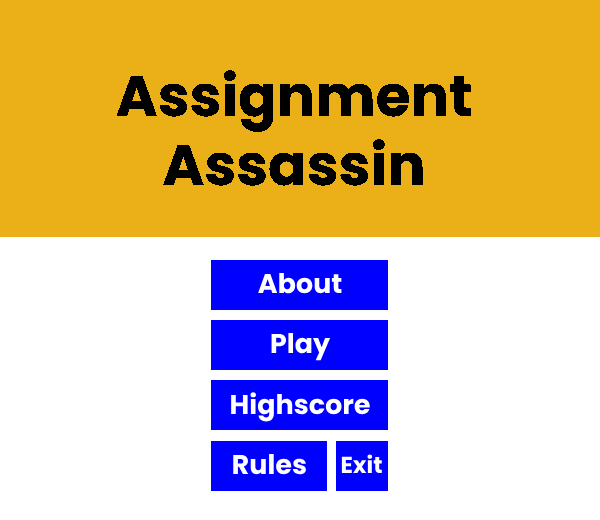
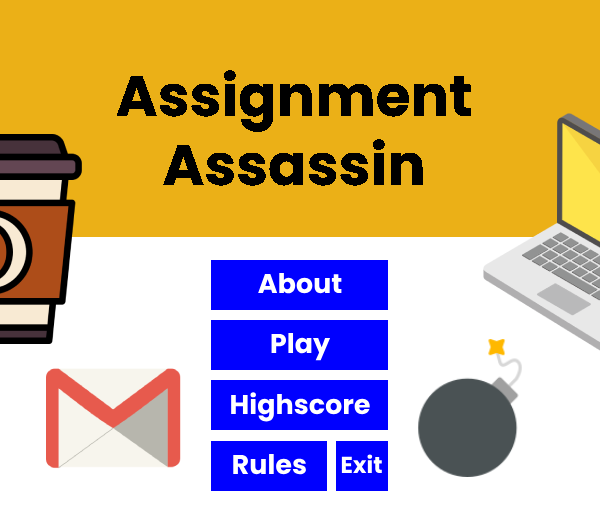
graphics update

diff --git a/Main.java b/Main.java
@@ -45,7 +45,7 @@ public class Main extends JPanel implements MouseListener, KeyListener, Runnable
 
     // IMAGES
     private static BufferedImage wallImg, unbreakableWallImg;
-    private static BufferedImage backgroundImg, highscoreImg, rulesImg, aboutImg, backImg, gameOverImg, winImg, bombImg, powerUpSpeedImg, powerUpSlowImg, doorImg, enemyImg;
+    private static BufferedImage backgroundImg, highscoreImg, rulesImg, aboutImg, backImg, gameOverImg, winImg, bombImg, powerUpSpeedImg, powerUpSlowImg, bedImg, enemyImg;
     private static BufferedImage[] characterSprites;
     private static BufferedImage playerImg;
     private static int spriteNum = 1;
@@ -77,9 +77,9 @@ public class Main extends JPanel implements MouseListener, KeyListener, Runnable
     private static int powerUp3Duration = 300;
     private static int powerUp4Duration = 300;
 
-    // DOOR
-    private static int xPosDoor;
-    private static int yPosDoor;
+    // BED
+    private static int xPosBed;
+    private static int yPosBed;
 
     // HIGHSCORE
     private static HashMap<String, Integer> highscoreMap = new HashMap<>();
@@ -176,8 +176,8 @@ public class Main extends JPanel implements MouseListener, KeyListener, Runnable
             // Clear screen
             super.paintComponent(g);
 
-            // Draw Door
-            g.drawImage(doorImg, xPosDoor, yPosDoor, null);
+            // Draw Bed
+            g.drawImage(bedImg, xPosBed, yPosBed, null);
 
             // If player has not claimed power up
             if(powerUp1Claimed == false)
@@ -355,7 +355,7 @@ public class Main extends JPanel implements MouseListener, KeyListener, Runnable
             g.drawString(timeString, 400, 27);
             g.drawString("Score: " + score, 80, 27);
             // Draw the countdown timer on the bottom
-            countDownString = String.format("Find the door within %d seconds for %d bonus points!", countDown, countDownPoints);
+            countDownString = String.format("Find the bed within %d seconds for %d bonus points!", countDown, countDownPoints);
             // If the countdown timer for bonus points has not run out, draw the countdown timer
             if(countDownPoints > 0)
             {
@@ -533,7 +533,7 @@ public class Main extends JPanel implements MouseListener, KeyListener, Runnable
         {
             // Clear screen, draw rules page, and draw back button
             super.paintComponent(g);
-            // g.drawImage(rulesImg, 0, 0, null);
+            g.drawImage(rulesImg, 0, 0, null);
             g.drawImage(backImg, 15, 15, null);
         }
 
@@ -604,7 +604,7 @@ public class Main extends JPanel implements MouseListener, KeyListener, Runnable
                     e1.printStackTrace();
                 }
             }
-            
+
             // If the user clicks on the play button
             else if(xPos >= 211 && xPos <= 388 && yPos >= 320 && yPos <= 370)
             {
@@ -794,9 +794,9 @@ public class Main extends JPanel implements MouseListener, KeyListener, Runnable
         // Get the key that the user presses
         int key = e.getKeyCode();
 
-        // Create player and door rectangle for opening the door to win
+        // Create player and bed rectangle for opening the bed to win
         Rectangle player = new Rectangle(xPosPlayer, yPosPlayer, 40, 40);
-        Rectangle door = new Rectangle(xPosDoor, yPosDoor, 40, 40);
+        Rectangle bed = new Rectangle(xPosBed, yPosBed, 40, 40);
 
         // If the user presses A set left to true and right to false. If the user presses D set right to true and left to false. If the user presses W set up to true and down to false. If the user presses S set down to true and up to false.
         if(key == KeyEvent.VK_A)
@@ -839,8 +839,8 @@ public class Main extends JPanel implements MouseListener, KeyListener, Runnable
             }
         }
 
-        // If the player is intersecting with the door and the user presses enter
-        else if((player.intersects(door) && (key == KeyEvent.VK_ENTER)))
+        // If the player is intersecting with the bed and the user presses enter
+        else if((player.intersects(bed) && (key == KeyEvent.VK_ENTER)))
         {
             // Play a sound effect and a victory tune
             clip.stop();
@@ -850,12 +850,12 @@ public class Main extends JPanel implements MouseListener, KeyListener, Runnable
             } catch (IOException e1) {
                 e1.printStackTrace();
             }
-            
-            // Determine how many points the user gets from entering the door
-            // If the user enters the door within 30 seconds: 300 points
-            // If the user enters the door after 30 seconds, but within 1 minute: 200 points
-            // If the user enters the door after 1 minute, but within 1 minute and 30 seconds: 100 points
-            // If the user enters the door after 1 minute and 30 seconds: 50 points
+
+            // Determine how many points the user gets from entering the bed
+            // If the user enters the bed within 30 seconds: 300 points
+            // If the user enters the bed after 30 seconds, but within 1 minute: 200 points
+            // If the user enters the bed after 1 minute, but within 1 minute and 30 seconds: 100 points
+            // If the user enters the bed after 1 minute and 30 seconds: 50 points
             if(timeElapsedSec <= 30)
                 score += 300;
             else if(timeElapsedSec > 30 && timeElapsedMin <= 1)
@@ -883,7 +883,7 @@ public class Main extends JPanel implements MouseListener, KeyListener, Runnable
         // Get the key that the user releases
         int key = e.getKeyCode();
 
-        // If the user releases A set left to false. If the user releases D set right to false. If the user releases W set up to false. If the user releases S set down to false   
+        // If the user releases A set left to false. If the user releases D set right to false. If the user releases W set up to false. If the user releases S set down to false
         if(key == KeyEvent.VK_A)
             left = false;
         else if(key == KeyEvent.VK_D)
@@ -948,7 +948,7 @@ public class Main extends JPanel implements MouseListener, KeyListener, Runnable
                         spriteNum = 1;
                     }
                     spriteCounter = 0;
-                    
+
                     try {
                         playMusic("footstep");
                     } catch (IOException e1) {
@@ -1065,7 +1065,7 @@ public class Main extends JPanel implements MouseListener, KeyListener, Runnable
         if(map[(bombY/40) - 1][(bombX/40)].equals("W")) {
             // Break the wall. Change the "W" in the 2d map array to a "-".
             map[(bombY/40) - 1][(bombX/40)] = "-";
-            
+
             // Play a sound effect for the wall breaking
             try {
                 playMusic("break");
@@ -1081,7 +1081,7 @@ public class Main extends JPanel implements MouseListener, KeyListener, Runnable
         if(map[(bombY/40) + 1][(bombX/40)].equals("W")) {
             // Break the wall. Change the "W" in the 2d map array to a "-".
             map[(bombY/40) + 1][(bombX/40)] = "-";
-            
+
             // Play a sound effect for the wall breaking
             try {
                 playMusic("break");
@@ -1097,7 +1097,7 @@ public class Main extends JPanel implements MouseListener, KeyListener, Runnable
         if(map[(bombY/40)][(bombX/40) - 1].equals("W")) {
             // Break the wall. Change the "W" in the 2d map array to a "-".
             map[(bombY/40)][(bombX/40) - 1] = "-";
-            
+
             // Play a sound effect for the wall breaking
             try {
                 playMusic("break");
@@ -1113,7 +1113,7 @@ public class Main extends JPanel implements MouseListener, KeyListener, Runnable
         if(map[(bombY/40)][(bombX/40) + 1].equals("W")) {
             // Break the wall. Change the "W" in the 2d map array to a "-".
             map[(bombY/40)][(bombX/40) + 1] = "-";
-            
+
             // Play a sound effect for the wall breaking
             try {
                 playMusic("break");
@@ -1169,7 +1169,7 @@ public class Main extends JPanel implements MouseListener, KeyListener, Runnable
 // --------------------------------------------------------------------------------------------------------------------------------------------------------
 
     // LOAD MAPS
-    // Description: This method reads "map.txt" and puts one of the maps from the text file into a 2d array so that it can be drawn when the game starts 
+    // Description: This method reads "map.txt" and puts one of the maps from the text file into a 2d array so that it can be drawn when the game starts
     // Parameters: N/A.
     // Return: N/A.
     public static void loadMaps() throws IOException
@@ -1215,11 +1215,11 @@ public class Main extends JPanel implements MouseListener, KeyListener, Runnable
             // Close the buffered reader
             br.close();
 
-            // Create the door
-            int doorBlock = (int) (Math.random() * xBlocks.size());
-            xPosDoor = xBlocks.get(doorBlock);
-            yPosDoor = yBlocks.get(doorBlock);
-            System.out.println("Door: " + xPosDoor + ", " + yPosDoor);
+            // Create the bed
+            int bedBlock = (int) (Math.random() * xBlocks.size());
+            xPosBed = xBlocks.get(bedBlock);
+            yPosBed = yBlocks.get(bedBlock);
+            System.out.println("Bed: " + xPosBed + ", " + yPosBed);
 
             // Call a method to generate enemies based on the map number
             generateEnemies(mapNumber);
@@ -1243,8 +1243,8 @@ public class Main extends JPanel implements MouseListener, KeyListener, Runnable
         // Generate x and y positions for power up 1
         int xPosPowerUp1 = (int)(Math.random()*(13)) +1;
         int yPosPowerUp1 = (int)(Math.random()*(11)) +1;
-        // While the x and y positions are not valid (if it is under an indestructable block, on the door, or on the spawn tile), generate another set of x and y positions for power up 1
-        while(map[yPosPowerUp1][xPosPowerUp1].equals("1") || (xPosPowerUp1 == xPosDoor && yPosPowerUp1 == yPosDoor) || (xPosPowerUp1 == 1 && yPosPowerUp1 == 1))
+        // While the x and y positions are not valid (if it is under an indestructable block, on the bed, or on the spawn tile), generate another set of x and y positions for power up 1
+        while(map[yPosPowerUp1][xPosPowerUp1].equals("1") || (xPosPowerUp1 == xPosBed && yPosPowerUp1 == yPosBed) || (xPosPowerUp1 == 1 && yPosPowerUp1 == 1))
         {
             xPosPowerUp1 = (int)(Math.random()*(13)) +1;
             yPosPowerUp1 = (int)(Math.random()*(11)) +1;
@@ -1255,8 +1255,8 @@ public class Main extends JPanel implements MouseListener, KeyListener, Runnable
         // Generate x and y positions for power up 2
         int xPosPowerUp2 = (int)(Math.random()*(13)) +1;
         int yPosPowerUp2 = (int)(Math.random()*(11)) +1;
-        // While the x and y positions are not valid (if it is under an indestructable block, on the door, on the spawn tile, or on power up 1), generate another set of x and y positions for power up 2
-        while(map[yPosPowerUp2][xPosPowerUp2].equals("1") || (xPosPowerUp1 == xPosPowerUp2 && yPosPowerUp1 == yPosPowerUp2) || (xPosPowerUp2 == xPosDoor && yPosPowerUp2 == yPosDoor) || (xPosPowerUp2 == 1 && yPosPowerUp2 == 1))
+        // While the x and y positions are not valid (if it is under an indestructable block, on the bed, on the spawn tile, or on power up 1), generate another set of x and y positions for power up 2
+        while(map[yPosPowerUp2][xPosPowerUp2].equals("1") || (xPosPowerUp1 == xPosPowerUp2 && yPosPowerUp1 == yPosPowerUp2) || (xPosPowerUp2 == xPosBed && yPosPowerUp2 == yPosBed) || (xPosPowerUp2 == 1 && yPosPowerUp2 == 1))
         {
             xPosPowerUp2 = (int)(Math.random()*(13)) +1;
             yPosPowerUp2 = (int)(Math.random()*(11)) +1;
@@ -1267,8 +1267,8 @@ public class Main extends JPanel implements MouseListener, KeyListener, Runnable
         // Generate x and y positions for power up 3
         int xPosPowerUp3 = (int)(Math.random()*(13)) +1;
         int yPosPowerUp3 = (int)(Math.random()*(11)) +1;
-        // While the x and y positions are not valid (if it is under an indestructable block, on the door, on the spawn tile, on power up 1, or on power up 2), generate another set of x and y positions for power up 3
-        while(map[yPosPowerUp3][xPosPowerUp3].equals("1") || (xPosPowerUp1 == xPosPowerUp3 && yPosPowerUp1 == yPosPowerUp3) || (xPosPowerUp2 == xPosPowerUp3 && yPosPowerUp2 == yPosPowerUp3) || (xPosPowerUp3 == xPosDoor && yPosPowerUp3 == yPosDoor) || (xPosPowerUp3 == 1 && yPosPowerUp3 == 1))
+        // While the x and y positions are not valid (if it is under an indestructable block, on the bed, on the spawn tile, on power up 1, or on power up 2), generate another set of x and y positions for power up 3
+        while(map[yPosPowerUp3][xPosPowerUp3].equals("1") || (xPosPowerUp1 == xPosPowerUp3 && yPosPowerUp1 == yPosPowerUp3) || (xPosPowerUp2 == xPosPowerUp3 && yPosPowerUp2 == yPosPowerUp3) || (xPosPowerUp3 == xPosBed && yPosPowerUp3 == yPosBed) || (xPosPowerUp3 == 1 && yPosPowerUp3 == 1))
         {
             xPosPowerUp3 = (int)(Math.random()*(13)) +1;
             yPosPowerUp3 = (int)(Math.random()*(11)) +1;
@@ -1279,8 +1279,8 @@ public class Main extends JPanel implements MouseListener, KeyListener, Runnable
         // Generate x and y positions for power up 4
         int xPosPowerUp4 = (int)(Math.random()*(13)) +1;
         int yPosPowerUp4 = (int)(Math.random()*(11)) +1;
-        // While the x and y positions are not valid (if it is under an indestructable block, on the door, on the spawn tile, on power up 1, on power up 2, or on power up 3), generate another set of x and y positions for power up 4
-        while(map[yPosPowerUp4][xPosPowerUp4].equals("1") || (xPosPowerUp1 == xPosPowerUp4 && yPosPowerUp1 == yPosPowerUp4) || (xPosPowerUp2 == xPosPowerUp4 && yPosPowerUp2 == yPosPowerUp4) || (xPosPowerUp3 == xPosPowerUp4 && yPosPowerUp3 == yPosPowerUp4) || (xPosPowerUp4 == xPosDoor && yPosPowerUp4 == yPosDoor) || (xPosPowerUp4 == 1 && yPosPowerUp4 == 1))
+        // While the x and y positions are not valid (if it is under an indestructable block, on the bed, on the spawn tile, on power up 1, on power up 2, or on power up 3), generate another set of x and y positions for power up 4
+        while(map[yPosPowerUp4][xPosPowerUp4].equals("1") || (xPosPowerUp1 == xPosPowerUp4 && yPosPowerUp1 == yPosPowerUp4) || (xPosPowerUp2 == xPosPowerUp4 && yPosPowerUp2 == yPosPowerUp4) || (xPosPowerUp3 == xPosPowerUp4 && yPosPowerUp3 == yPosPowerUp4) || (xPosPowerUp4 == xPosBed && yPosPowerUp4 == yPosBed) || (xPosPowerUp4 == 1 && yPosPowerUp4 == 1))
         {
             xPosPowerUp4 = (int)(Math.random()*(13)) +1;
             yPosPowerUp4 = (int)(Math.random()*(11)) +1;
@@ -1356,7 +1356,7 @@ public class Main extends JPanel implements MouseListener, KeyListener, Runnable
                 // If the user tries to enter an empty name
                 if(nameEntered.length() <= 0)
                 {
-                    // Display that it is invalid and call the method again so that the user can enter their name again 
+                    // Display that it is invalid and call the method again so that the user can enter their name again
                     JOptionPane.showMessageDialog(null, "No name given.", "Invalid Entry", JOptionPane.ERROR_MESSAGE);
                     enterHighscoreName();
                 }
@@ -1620,7 +1620,7 @@ public class Main extends JPanel implements MouseListener, KeyListener, Runnable
             // Load the images for the menu pages
             backgroundImg = ImageIO.read(new File("Images/Background.png"));
             highscoreImg = ImageIO.read(new File("Images/highscore.png"));
-            // rulesImg = ImageIO.read(new File("Images/rulesImg.png"));
+            rulesImg = ImageIO.read(new File("Images/rules.png"));
             aboutImg = ImageIO.read(new File("Images/about.png"));
             backImg = ImageIO.read(new File("Images/back.png"));
             gameOverImg = ImageIO.read(new File("Images/gameOver.png"));
@@ -1648,8 +1648,8 @@ public class Main extends JPanel implements MouseListener, KeyListener, Runnable
             powerUpSpeedImg = ImageIO.read(new File("Images/powerUpSpeed.png"));
             powerUpSlowImg = ImageIO.read(new File("Images/powerUpSlow.png"));
 
-            // Load the image of the door
-            doorImg = ImageIO.read(new File("Images/door.png"));
+            // Load the image of the bed
+            bedImg = ImageIO.read(new File("Images/bed.png"));
 
             // Load the image of the enemy
             enemyImg = ImageIO.read(new File("Images/laptop.png"));
